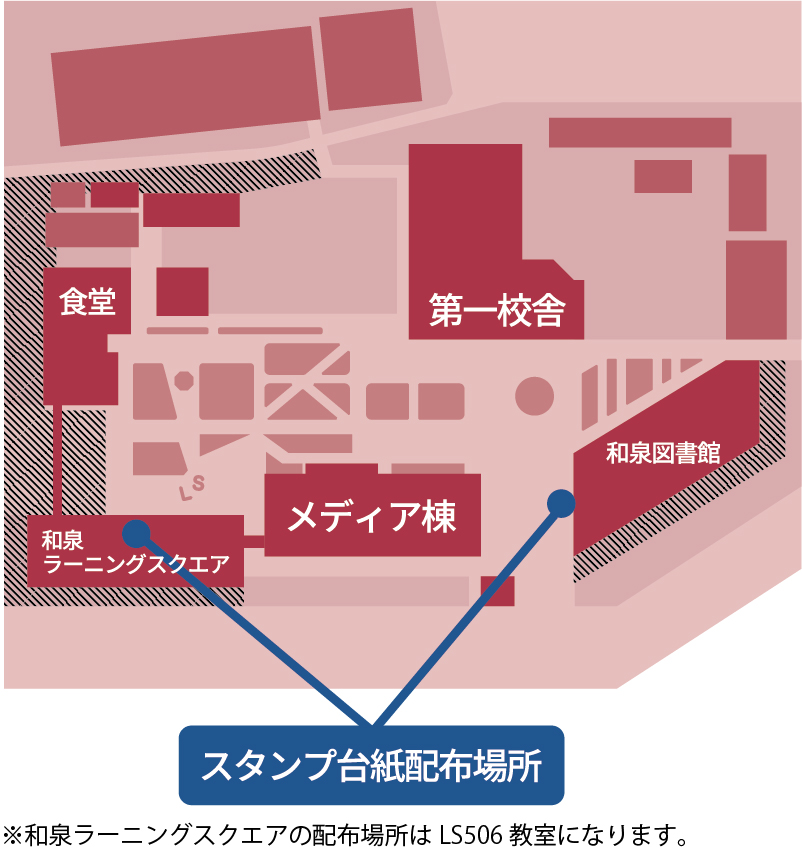
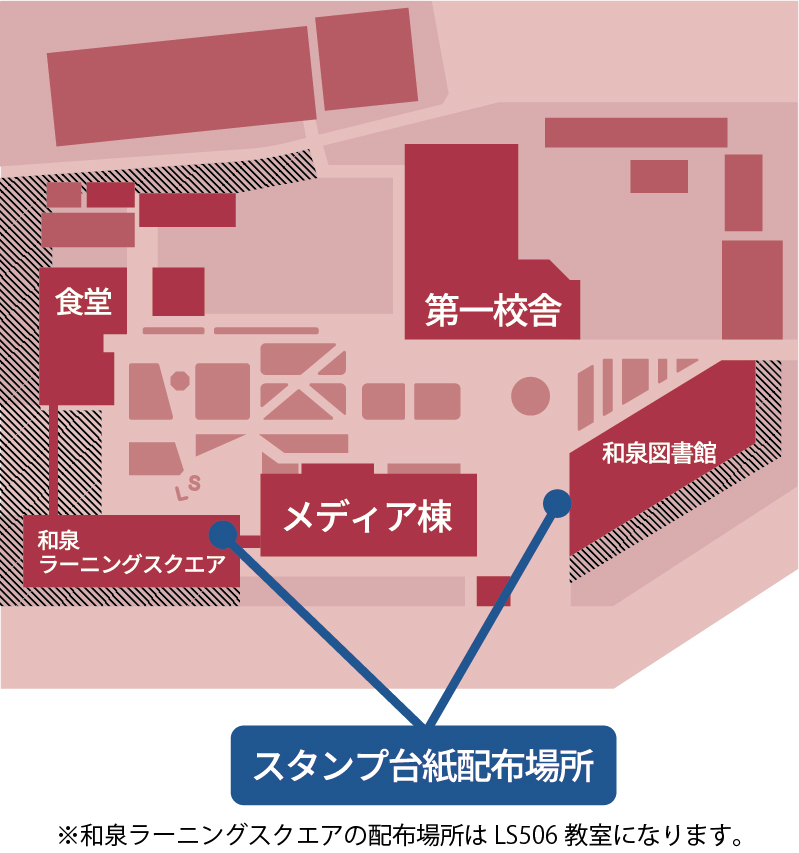
マップの挿入

diff --git a/src/app/quest/page.tsx b/src/app/quest/page.tsx
@@ -62,8 +62,8 @@ export default function Page() {
                         景品には限りがございますのでご了承ください。
                     </ListItem>
                 </List>
-                <MapImage src='/images/map/quest.jpg' alt="スタンプ台紙のマップ"/>
-                <SectionTitle className="mt-10">協力団体 </SectionTitle>
+                <MapImage src='/images/map/Quest.jpg' alt="スタンプ台紙のマップ"/>
+                <SectionTitle className="mt-7">協力団体 </SectionTitle>
                 <List mark="・" className="mt-8">
                     <ListItem>
                         競技麻雀サークル明雀会
